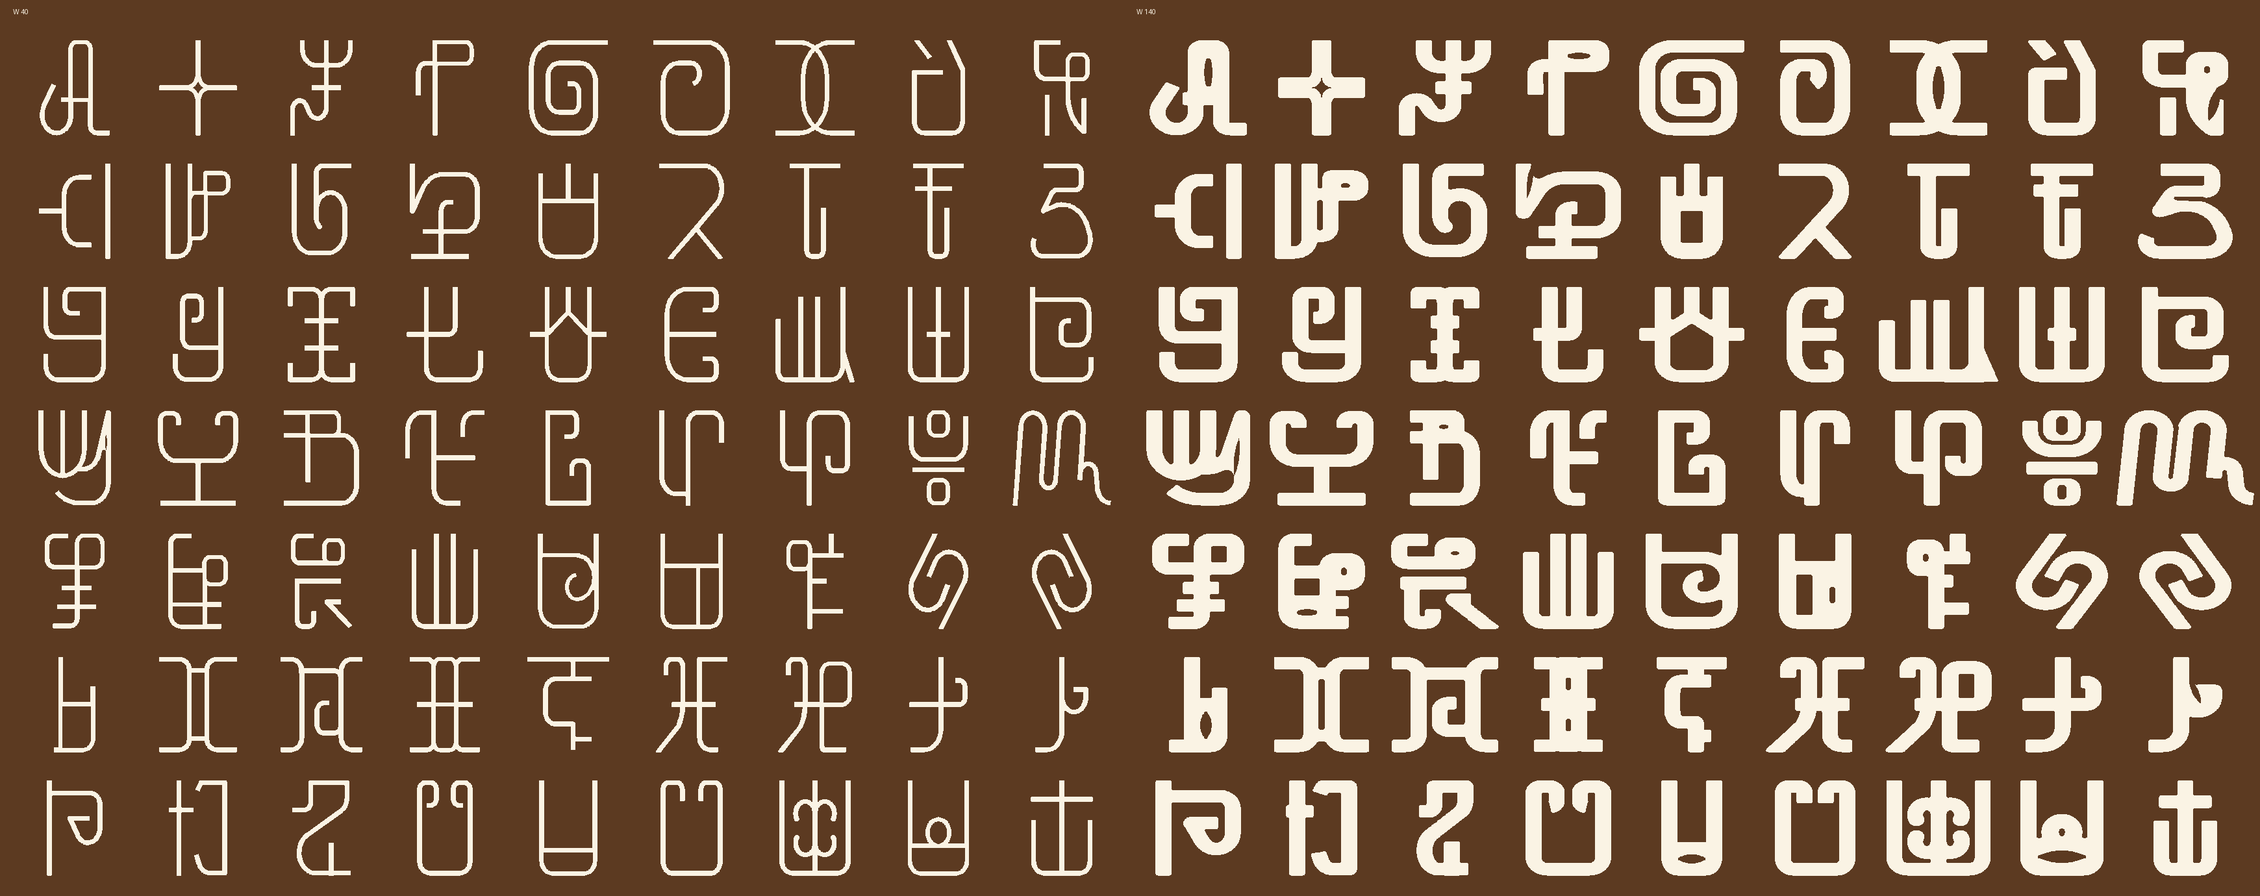
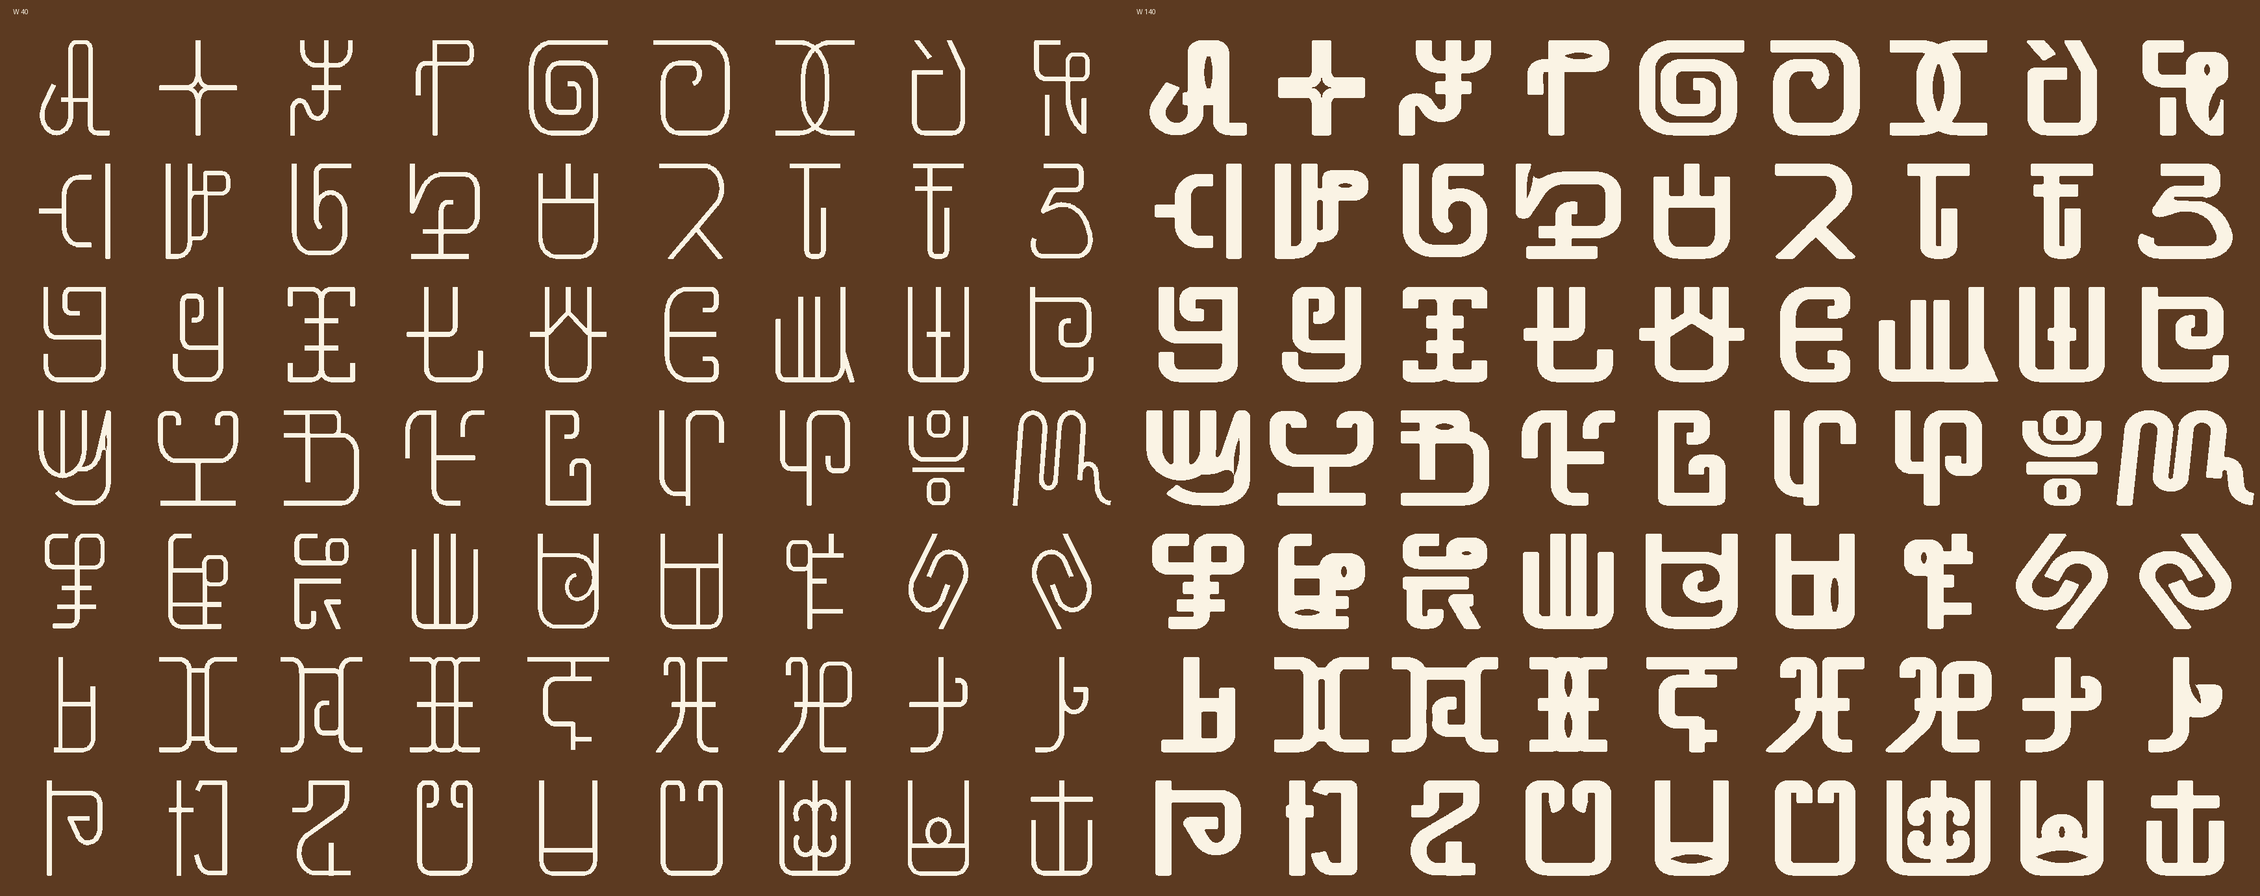
Kɔradin Eyes r15: sharp points on every eye and blade (no rounding pass reaches them), short kept gaps drawn as blades, widths harmonised (glyphs that barely widened now widen 1.3x like the rest), fi in one column; METHOD.md records the method, the owner's rules and the roadmap; 63/63 topology
Claude-Session: https://claude.ai/code/session_01UantNMAVhfM7WEVtYsjyCg

diff --git a/fonts/kradin-eyes/r15/post3.py b/fonts/kradin-eyes/r15/post3.py
@@ -1,0 +1,107 @@
+"""r14 post: the owner's negative-space language (lens eyes are in the engine) applied where he drew it
+- e: the glyph and its vertical mirror; Black's centre counter a four-point star inscribed in the crossing
+- u: exact symmetry on both axes
+- ink traps (pe, du, no): the slot becomes a leaf, pointed at both ends, convex sides
+- aperture (pɔ): a blade, the leaf's outer point carried out through the edge
+- fi: the lower part centred (by its bar) under the upper part
+- ku: rebuilt from the hand drawing: consistent weight, the U's inside runs concentric round the ring at the gap"""
+import json, sys, glob, math, numpy as np
+sys.path.insert(0, '/home/claude/work/eyes2')
+from shapely.geometry import Polygon, Point, box, LineString
+from shapely.ops import unary_union
+from shapely import affinity
+import engine
+R = json.load(open(sys.argv[1])); KUEYE = sys.argv[3] if len(sys.argv) > 3 else 'capsule'; BH = 910.0; C = 0.82
+def geom(ps): return unary_union([Polygon(p[0], p[1:]).buffer(0) for p in ps])
+def polys(g): return [] if g.is_empty else [p for p in (g.geoms if hasattr(g, "geoms") else [g]) if p.geom_type == "Polygon"]
+def out(g): return [[np.round(np.array(p.exterior.coords), 1).tolist()] + [np.round(np.array(r.coords), 1).tolist() for r in p.interiors] for p in polys(g)]
+def sig(g): P = [p for p in polys(g) if p.area > 50]; return (len(P), sum(1 for p in P for r in p.interiors if Polygon(r).area > 50))
+def ell(cx, cy, rx, ry): return affinity.scale(Point(cx, BH - cy).buffer(1, quad_segs=32), rx, ry)
+FB = {}
+for f in glob.glob('/tmp/claude-0/fbdata/feedback/*.json') + glob.glob('/tmp/claude-0/picks/picks/*.json'):
+    d = json.load(open(f)); d = d.get('data', d); FB.setdefault(d['key'], []).extend(d.get('marks', []))
+def nib(g, d):            # offset with the elliptical nib (horizontals lighter): d > 0 grows, d < 0 shrinks
+    s = affinity.scale(g, 1, 1 / C, origin=(0, 0)); s = s.buffer(d, quad_segs=16, join_style=1)
+    return affinity.scale(s, 1, C, origin=(0, 0))
+def rrect(x0, y0, x1, y1, r):
+    r = min(r, (x1 - x0) / 2 - 0.5, (y1 - y0) / 2 - 0.5); return box(x0 + r, y0 + r, x1 - r, y1 - r).buffer(r, quad_segs=16)
+def leaf(g, E, W, blade=False):
+    r = 0.5 * W; S = g.buffer(r, quad_segs=16).buffer(-r, quad_segs=16).difference(g)
+    comps = [p for p in polys(S) if p.intersects(E) and p.area > 20]
+    if not comps: return g, 'no slot found'
+    N = max(comps, key=lambda p: p.intersection(E).area)
+    xy = np.asarray(N.exterior.coords); c = np.asarray(N.centroid.coords[0]); ax = np.linalg.svd(xy - c, full_matrices=False)[2][0]
+    t = (xy - c) @ ax; p0, p1 = xy[t.argmin()], xy[t.argmax()]; L = np.hypot(*(p1 - p0))
+    b_ = g.bounds; outside = box(b_[0] - 500, b_[1] - 500, b_[2] + 500, b_[3] + 500).difference(g.union(S).buffer(0.5))
+    if Point(p0).distance(outside) < Point(p1).distance(outside): mouth, tip = p0, p1
+    else: mouth, tip = p1, p0
+    if blade: mouth = mouth + (mouth - tip) / L * 0.35 * L
+    cen = (mouth + tip) / 2; a = np.hypot(*(mouth - tip)) / 2; ang = math.degrees(math.atan2(*(mouth - tip)[::-1]))
+    meanw = N.area / max(L, 1); bb = min(max(0.62 * meanw, 0.1 * a), 0.3 * a)
+    lf = engine.lens(cen[0], cen[1], a, bb, ang)
+    return g.union(N.buffer(0.3)).difference(lf).buffer(0), 'ok'
+def try_op(k, W, fn, *args):
+    g = geom(R[W][k]); ref = sig(g); h, msg = fn(g, *args)
+    if sig(h) != ref: print(k, W, fn.__name__, 'refused (parts or counters would change)'); return
+    print(k, W, fn.__name__, msg); R[W][k] = out(h)
+
+# e: vertical mirror on itself; Black: a four-point star in the crossing
+def e_op(g, W):
+    b = g.bounds; cy = (b[1] + b[3]) / 2; g = unary_union([g, affinity.scale(g, 1, -1, origin=(0, cy))]).buffer(0.01).buffer(-0.01)
+    if W == '140':
+        xs = LineString([(b[0] - 9, BH - 60), (b[2] + 9, BH - 60)]).intersection(g).bounds
+        ys = LineString([(b[0] + 40, -9), (b[0] + 40, BH + 9)]).intersection(g).bounds
+        x0, x1, y0, y1 = xs[0], xs[2], ys[1], ys[3]; cx, cy2 = (x0 + x1) / 2, (y0 + y1) / 2
+        hx, hy = (x1 - x0) / 2 * 0.96, (y1 - y0) / 2 * 0.96; n = 0.62
+        th = np.linspace(0, 2 * math.pi, 240)
+        star = Polygon(np.c_[cx + hx * np.sign(np.cos(th)) * np.abs(np.cos(th)) ** (2 / n), cy2 + hy * np.sign(np.sin(th)) * np.abs(np.sin(th)) ** (2 / n)])
+        g = g.union(box(x0, y0, x1, y1)).difference(star)
+    return g, 'ok'
+for W in ('40', '140'):
+    g = geom(R[W]['e']); h, _ = e_op(g, W); R[W]['e'] = out(h)
+# u: symmetric on both axes
+for W in ('40', '140'):
+    g = geom(R[W]['u']); b = g.bounds; cx, cy = (b[0] + b[2]) / 2, (b[1] + b[3]) / 2
+    q = g.intersection(box(b[0] - 9, cy, cx, b[3] + 9))
+    h = unary_union([q, affinity.scale(q, -1, 1, origin=(cx, 0)), affinity.scale(q, 1, -1, origin=(0, cy)), affinity.scale(q, -1, -1, origin=(cx, cy))]).buffer(0.01).buffer(-0.01)
+    if sig(h) == sig(g): R[W]['u'] = out(h)
+    else: print('u', W, 'symmetry refused')
+# leaves and the blade, where the owner marked the ink traps
+def marks(k, w, v=None): return [m for m in FB.get(k, []) if m['w'] == w and (v is None or m.get('v') in (None, v))]
+for m in marks('pe', 'black'): try_op('pe', '140', leaf, ell(m['cx'], m['cy'], m['rx'], m['ry']), 140.)
+for m in marks('pɔ', 'black'): try_op('pɔ', '140', leaf, ell(m['cx'], m['cy'], m['rx'], m['ry']), 140., True)
+for m in marks('no', 'black', 'A'): try_op('no', '140', leaf, ell(m['cx'], m['cy'], m['rx'] * 1.3, m['ry'] * 1.3), 140.)
+for m in marks('du', 'thin'):
+    try_op('du', '40', leaf, ell(m['cx'], m['cy'], m['rx'], m['ry']), 40.)
+    tb = geom(R['40']['du']).bounds; bb = geom(R['140']['du']).bounds; sx = (bb[2] - bb[0]) / (tb[2] - tb[0])
+    try_op('du', '140', leaf, ell(bb[0] + (m['cx'] - tb[0]) * sx, m['cy'], m['rx'] * sx * 1.6, m['ry'] * 1.3), 140.)
+# fi: one column. The lower part starts on the upper part's left edge, and nothing passes its right edge
+for W in ('40', '140'):
+    P = polys(geom(R[W]['fi'])); up = max(P, key=lambda p: p.centroid.y); lo = [p for p in P if p is not up]
+    ub = up.bounds; L = unary_union(lo); dx = ub[0] - L.bounds[0]
+    lo = [affinity.translate(p, dx, 0) for p in lo]
+    over = max(p.bounds[2] for p in lo) - ub[2]
+    if over > 0:                                    # the diagonal: drawn back inside the column
+        dg = max(lo, key=lambda p: p.bounds[2]); rest = [p for p in lo if p is not dg]
+        moved = affinity.translate(dg, -over, 0)
+        if all(moved.distance(q) > 20 for q in rest + [up]): lo = rest + [moved]
+    R[W]['fi'] = out(unary_union([up] + lo))
+    print('fi', W, 'lower part moved', round(dx), 'overhang', round(over))
+# ku Black, rebuilt: rings with an even weight, the U's inside concentric round the top ring at the gap
+G = 52.0; Wv = 140.0
+r1 = rrect(125, 620, 461, 910, 95); r2 = rrect(128, 0, 459, 250, 90); utop = 805
+def ring(o):
+    inner = nib(o, -Wv / 2 * 1.0)
+    bx = inner.bounds; w_, h_ = bx[2] - bx[0], bx[3] - bx[1]; cx_, cy_ = (bx[0] + bx[2]) / 2, (bx[1] + bx[3]) / 2
+    if KUEYE == 'capsule':
+        ew = min(w_, 0.6 * h_); eye = rrect(cx_ - ew / 2, bx[1], cx_ + ew / 2, bx[3], ew / 2)
+    else: eye = engine.lens(cx_, cy_, w_ / 2, min(h_ * 0.32, w_ * 0.3), 0)
+    return o.difference(eye)
+inside = nib(r1, G).union(box(r1.bounds[0] - G, (r1.bounds[1] + r1.bounds[3]) / 2, r1.bounds[2] + G, BH + 50))
+U = nib(inside, Wv).difference(inside).intersection(box(-3000, -3000, 4000, utop))
+U = U.buffer(-19, quad_segs=8).buffer(19, quad_segs=8)
+bar = rrect(-27, 297, 613, 412, 19)
+ku = unary_union([U, bar, ring(r1), ring(r2)])
+print('ku black parts', sig(ku), 'U bottom', round(U.bounds[1]), 'bar', bar.bounds[1], bar.bounds[3])
+R['140']['ku'] = out(ku)
+json.dump(R, open(sys.argv[2], 'w'))

diff --git a/src/eyes2/engine.py b/src/eyes2/engine.py
@@ -230,6 +230,7 @@ def ring_merge(far, S0, thin):
 
 EXCEPT = {"ku": "rings"}
 for _k in os.environ.get("EYES_EXCEPT_OFF", "").split(","): EXCEPT.pop(_k, None)
+GX = json.load(open(os.environ["EYES_GX"])) if os.environ.get("EYES_GX") else {}
 SHRINK = {"fɔ"} | set(filter(None, os.environ.get("EYES_SHRINK", "").split(",")))          # strokes may shrink to fit (owner: fɔ too thin)
 
 def build(strokes, thin, W, Wthin, gap, ro, ri, eye_min=0.55, relax=False, key=None):
@@ -238,6 +239,7 @@ def build(strokes, thin, W, Wthin, gap, ro, ri, eye_min=0.55, relax=False, key=N
     import body as BODY, relax as RX
     global BH
     RX.SHRINK_ALL = key in SHRINK
+    RX.GX_FIX = GX.get(key)
     c = BODY.contrast(W)
     if c == 1.0: return _build(strokes, thin, W, Wthin, gap, ro, ri, eye_min, relax, key)
     sc = lambda st: dict(st, cl=(np.asarray(st["cl"], float) / [1, c]).tolist(), poly=(np.asarray(st["poly"], float) / [1, c]).tolist())
@@ -272,6 +274,7 @@ def _build(strokes, thin, W, Wthin, gap, ro, ri, eye_min=0.55, relax=False, key=
     dropped = None
     if cut is not None and W > Wthin: cut, dropped = clean_cuts(ink, cut, gap, W)
     ink, cut = owner_marks(key, ink, cut, W, Wthin, gap, lines_w, strokes)
+    if cut is not None and W > Wthin and BLADE: cut = bladeify(cut, gap, ink)
     A = ink.difference(cut) if cut is not None else ink
     # eyes: closed counters without islands -> squircle negative
     eyes = []
@@ -314,6 +317,16 @@ def _build(strokes, thin, W, Wthin, gap, ro, ri, eye_min=0.55, relax=False, key=
         A = A.union(v.intersection(box(-3000, 0, 4000, BH)))
     A = unary_union([p for p in polys(A.buffer(0)) if p.area > 0.15 * W * W])   # crumbs left by the cuts
     if W > Wthin: A = fill_wedges(A, dropped, W, gap); A = fill_tapers(A, cut, gap) if not os.environ.get("EYES_NOTAPER") else A; A = fill_notches(A, W)
+    if W > Wthin and EYE_STYLE == "lens":             # eyes and blades keep their sharp points (no rounding pass reaches them)
+        sharp = [x for x in eyes] + ([cut] if (cut is not None and BLADE) else [])
+        spn = unary_union(list(sp.values())) if sp else None                # never through a stroke's spine
+        if sharp:
+            S_ = unary_union([x.buffer(0) for x in sharp])
+            if spn is not None: S_ = S_.difference(spn.buffer(0.12 * W))
+            hull_ = box(*A.bounds).buffer(10); neg = hull_.difference(A)
+            S_ = S_.intersection(neg.buffer(0.15 * W))                # only the points the rounding filled, next to the counter
+            A = A.difference(S_)
+        A = unary_union([p for p in polys(A.buffer(0)) if p.area > 0.15 * W * W])
     if W > Wthin: A = finish(A, tink, W, ro)
     return A.buffer(0), dict(cut=cut, eyes=eyes, raw=raw, S=S, S0=S0, lines=lines, skel=lines_w, keep=keep)
 
@@ -367,6 +380,27 @@ def owner_marks(key, ink, cut, W, Wthin, gap, lines=None, strokes=None):
             r = 0.3 * W
             ink = ink.union(ink.buffer(r, quad_segs=12).buffer(-r, quad_segs=12).intersection(E)).buffer(0)
     return ink, cut
+
+BLADE = os.environ.get("EYES_BLADE", "1") == "1"
+BLADE_MAX = float(os.environ.get("EYES_BLADE_MAX", 4.5))
+def bladeify(cut, gap, ink):
+    """every gap kept between two strokes is drawn as a blade: a lens pointed at both ends. An end that opens
+    onto a counter or the outside runs out past the ink (the point lands in the open); an end that stops in the
+    ink stops there, pointed (a leaf). All apertures share one shape, as the eyes do"""
+    out = []
+    for b in polys(cut):
+        xy = np.asarray(b.exterior.coords); c = xy.mean(axis=0); ax = np.linalg.svd(xy - c, full_matrices=False)[2][0]
+        t = (xy - c) @ ax; L = t.max() - t.min(); nrm = np.array([-ax[1], ax[0]]); off = (xy - c) @ nrm
+        width = off.max() - off.min()
+        if L < 1.2 * gap or L > BLADE_MAX * gap: out.append(b); continue      # long slots stay parallel
+        mid = c + nrm * (off.max() + off.min()) / 2
+        e0, e1 = mid + ax * t.min(), mid + ax * t.max()
+        op0 = not ink.contains(Point(e0 - ax * gap * 0.6)); op1 = not ink.contains(Point(e1 + ax * gap * 0.6))
+        if not (op0 or op1): out.append(b); continue
+        p0 = e0 - ax * (0.35 * L if op0 else 0); p1 = e1 + ax * (0.35 * L if op1 else 0)
+        cen = (p0 + p1) / 2; a = np.hypot(*(p1 - p0)) / 2; bb = min(width / 2 * 1.25, 0.45 * a)
+        out.append(lens(cen[0], cen[1], a, bb, math.degrees(math.atan2(ax[1], ax[0]))))
+    return unary_union(out)
 
 def fill_notches(A, W, mouth=1.3, area=1.2):
     """a notch that opens on a body line (baseline or top) between two feet of the same part, narrower than

diff --git a/src/eyes2/relax.py b/src/eyes2/relax.py
@@ -10,6 +10,9 @@ import os
 FLARE = float(os.environ.get("EYES_FLARE", 1.0))
 SMIN = float(os.environ.get("EYES_SMIN", 0.8))      # a stroke may shrink (about its centre) to fit inside a counter
 SHRINK_ALL = False
+GX_FIX = None
+GX_MIN = float(os.environ['EYES_GX_MIN']) if os.environ.get('EYES_GX_MIN') else None
+LAST_GX = None
 RETRACT = float(os.environ.get("EYES_RETRACT", 2.0))   # a free end may shorten by up to this many weights to clear a part
 
 def relax(S0, S, sid, strokes, far, W, Wthin, gap, iters=None):
@@ -86,7 +89,11 @@ def relax(S0, S, sid, strokes, far, W, Wthin, gap, iters=None):
         if hasB[i] or hasT[i]: lo[4 * i + 1], hi[4 * i + 1] = -e, e            # no vertical shift
         if hasB[i] and hasT[i]: lo[4 * i + 3], hi[4 * i + 3] = 1 - e, 1 + e     # full height: no vertical scale
     x0 = np.clip(x0, lo, hi)
+    if GX_MIN is not None and GX_FIX is None: lo[-1] = max(lo[-1], GX_MIN); x0[-1] = max(x0[-1], GX_MIN)
+    if GX_FIX is not None:                     # the glyph's widening set from outside (width harmonised across the font)
+        lo[-1], hi[-1] = GX_FIX - 1e-6, GX_FIX + 1e-6; x0[-1] = GX_FIX
     sol = least_squares(res, x0, bounds=(lo, hi), x_scale=np.r_[np.tile([W, W, 1, 1], ns), 1], max_nfev=300)
+    global LAST_GX; LAST_GX = float(sol.x[-1])
     P = place(sol.x)
     # retract free ends that still crowd a separate part (shorter strokes instead of bites)
     gid = gof; CPset = {(int(a), int(b)): True for a, b in CP}

diff --git a/fonts/kradin-eyes/METHOD.md b/fonts/kradin-eyes/METHOD.md
@@ -1,0 +1,101 @@
+# Kɔradin Eyes: how it is made
+
+Kɔradin Eyes is a two-master font (Thin W 40, Black W 140) built from strokes, with counters, eyes and apertures cut as shapes. This file records how it works and what the owner has taught it so far, so the same method carries on to the rest of the font, the serif styles and later projects.
+
+## 1. Principles (set by the owner)
+
+1. **One font, one direction.** Thin and Black are the same design. Topology, parts and junctions are read on Thin and then enforced on Black.
+2. **Strokes that do not touch in Thin never touch in Black.** The exceptions are named per glyph (for example ku's rings, or hooks the owner asks to keep apart).
+3. **Stay faithful to the akrokerri mod** (glyphs.json and its edits) for the skeleton. Use Koradin.otf as the guide for nasal marks, in the full-font pass.
+4. **Negative space has a language:**
+   - **Eye:** a closed small counter, drawn as a lens (two arcs meeting in sharp points), running point to point across the counter.
+   - **Crossing:** a four-way crossing becomes a four-point star (e).
+   - **Ink trap:** a dead-end slot between converging strokes becomes a leaf, pointed at both ends.
+   - **Aperture:** a slit that opens to the outside becomes a blade, whose outer point runs out past the edge.
+   - **Long slots** stay parallel.
+   - **Sharp means sharp:** no rounding pass reaches the points.
+5. **Corner rule.** An inside corner follows the outside one: concentric, at the gap (the ku hand drawing).
+6. **Even weight.** No stroke gets thinner to make room. Make room by moving, shortening or reshaping strokes.
+7. **Body lines.**
+   - Ends that cross the baseline or the top line are cut flat on them.
+   - Bars on the top axis reach the top line, and so must hooks (ne, nɛ).
+   - Bowls that dip past a body line run flat along it.
+8. **Symmetry.** Glyphs meant to be symmetric are made exactly symmetric (u on both axes, e by its mirror).
+9. **Widths are harmonised.** Every Black glyph widens by at least the same factor, so the narrow ones stop looking pinched.
+
+## 2. Pipeline (src/eyes2, run from site2)
+
+1. `dump.js 40,140 rad.json override.json`: turtle strokes from the lab become centrelines and polygons per weight. `override.json` holds the skeleton edits.
+2. `transform.py`: right-angle turns are squared, but only where the Thin contacts stay the same.
+3. `stretch.py rad.json out.json 1.3`: body 700 → 910. The ops are read on Thin and applied to every weight:
+   - **run:** a near-miss end runs on to the other stroke's centreline.
+   - **trim:** an end that overshoots, past a crossing or past the end of an L-corner, is cut back.
+   - **cap:** the ends of an L corner get square caps.
+   - **cut / foot / pull:** owner ops. `cut` runs an end to the body line; `foot` makes an end overshoot the stroke it stops on; `pull` shortens an end, Black only.
+   - Black uses an elliptical nib (contrast 0.82: horizontals lighter).
+4. `engine.py` (`EYES_H=910 EYES_FLARE=1.15 EYES_GX_MIN=1.3 EYES_OWNER=owner.json`) builds both masters:
+   - **separation:** Thin touch graph plus geodesic distance tell which samples are "far" (different parts).
+   - **relax:** each stroke group moves and scales by least squares, while junctions and body lines hold. The glyph may widen (gx, at least 1.3, at most 1.45).
+   - **cuts:** Voronoi ridges between far samples become gap bands.
+     - `clean_cuts` drops bites, meaning cuts that change nothing topologically.
+     - `bladeify` turns short kept gaps into blades.
+   - **eyes:** small closed counters become lenses (`lens_eye`); large ones become rounded rectangles. Thin counters that close in Black get a minimum eye.
+   - **spines:** they keep every stroke from being cut through.
+   - **fills:** wedges, tapers and baseline notches.
+   - **owner marks:** join, nogap, slit, crotch, smooth.
+   - **sharp pass:** eyes and blades are re-cut at the end.
+   - **finish:** body-line snap and symmetry.
+5. `symm.py`: exact mirror symmetry for the symmetric list.
+6. `post3.py`: the owner's drawn shapes:
+   - e star
+   - u symmetry on both axes
+   - pe, du and no leaves
+   - pɔ blade
+   - fi column
+   - ku rebuilt by rule
+7. `verify.py` (topology: no merges or breaks, counters kept), `widths.py`, `overlay.py` (Thin compared with akrokerri), `otf.py`.
+
+## 3. The feedback loop (privileged in every session)
+
+The review board (a claude.ai artifact) stores everything in a database that Claude reads with the ArtifactData tool:
+- **feedback:** remark marks, rules a glyph may break, notes, validation.
+- **picks / picks14:** the A/B picks, with marks per variant.
+
+1. **Read.** List the collections and render every glyph with its marks over the revision the owner saw (`marks.py`).
+2. **Interpret before acting.** For each mark, say what it is pointing at in the geometry, and whether it calls for a skeleton change, a stroke-end op, an engine op or a drawn shape. Then confirm against the owner's own words:
+   - "smoothing over" means smoothing, not joining
+   - "ink trap too pronounced" means keep the aperture
+   - "touch the topline" applies to the part that was named
+3. **Change the strokes first.** Prefer the skeleton or stroke ops (override, stretch ops) to polygon hacks. Polygon patches (closings, hulls) are the last resort, limited to the mark and checked for topology. In r11 polygon patches added stray strokes and lines.
+4. **Offer A/B when the reading is open.** Show both on the board and let the owner pick; use the pick and its notes as rules.
+5. **Look before reporting.** Zoom on every changed glyph next to the previous revision, check topology on all 63, then republish the board with a new revision label.
+
+## 4. Rules learned per glyph (r10 to r14)
+
+- **Hooks against a stem (re, tɔ, no, nɔ):** keep the strokes apart.
+  - A narrow straight slit cut from the hook only, so the stem edge stays straight.
+  - Or the hook end shortened in Black (re).
+  - Never joined.
+- **Converging strokes (pe, pɔ, du, ti):** keep the aperture.
+  - The tip becomes a leaf (pe, du, no) or a blade through the edge (pɔ).
+  - Do not fill.
+- **e:** the glyph overlaid with its vertical mirror, with a four-point star in the Black crossing.
+- **u:** the two crossing strokes mirror each other (round curves), symmetric on both axes, vertical lens eye.
+- **se, sɛ:** both hooks are one stroke, drawn twice at their own angles, 26° more vertical.
+- **si:** a foot that runs a full stroke past the stem on the baseline.
+- **sɔ:** arches 78 units shorter on each side.
+- **ne, nɛ:** the hook's top run sits on the top axis. In nɛ, the bar and the bowl bottom share one line.
+- **ku:**
+  - Rings centred and separate.
+  - The U runs concentric round the top ring at the gap; even weight.
+  - Capsule or lens eyes.
+- **fi:** one column. The lower part starts on the upper part's left edge, and the diagonal is steeper and stays inside the column.
+- **fɔ:** bowl radius 145 and curl radius 80, so the weight stays even and clears the bottom.
+- **pa:** right diagonal cut flat on the top line, asymmetric.
+
+## 5. Roadmap (owner, 2026-10-29)
+
+1. Validate the 63 radicals.
+2. The rest of the font (composites and marks), with the nasal marks guided by Koradin.otf, not akrokerri.
+3. Serifs, designed with the same feedback board.
+4. A second serif style based on Agu Display.
